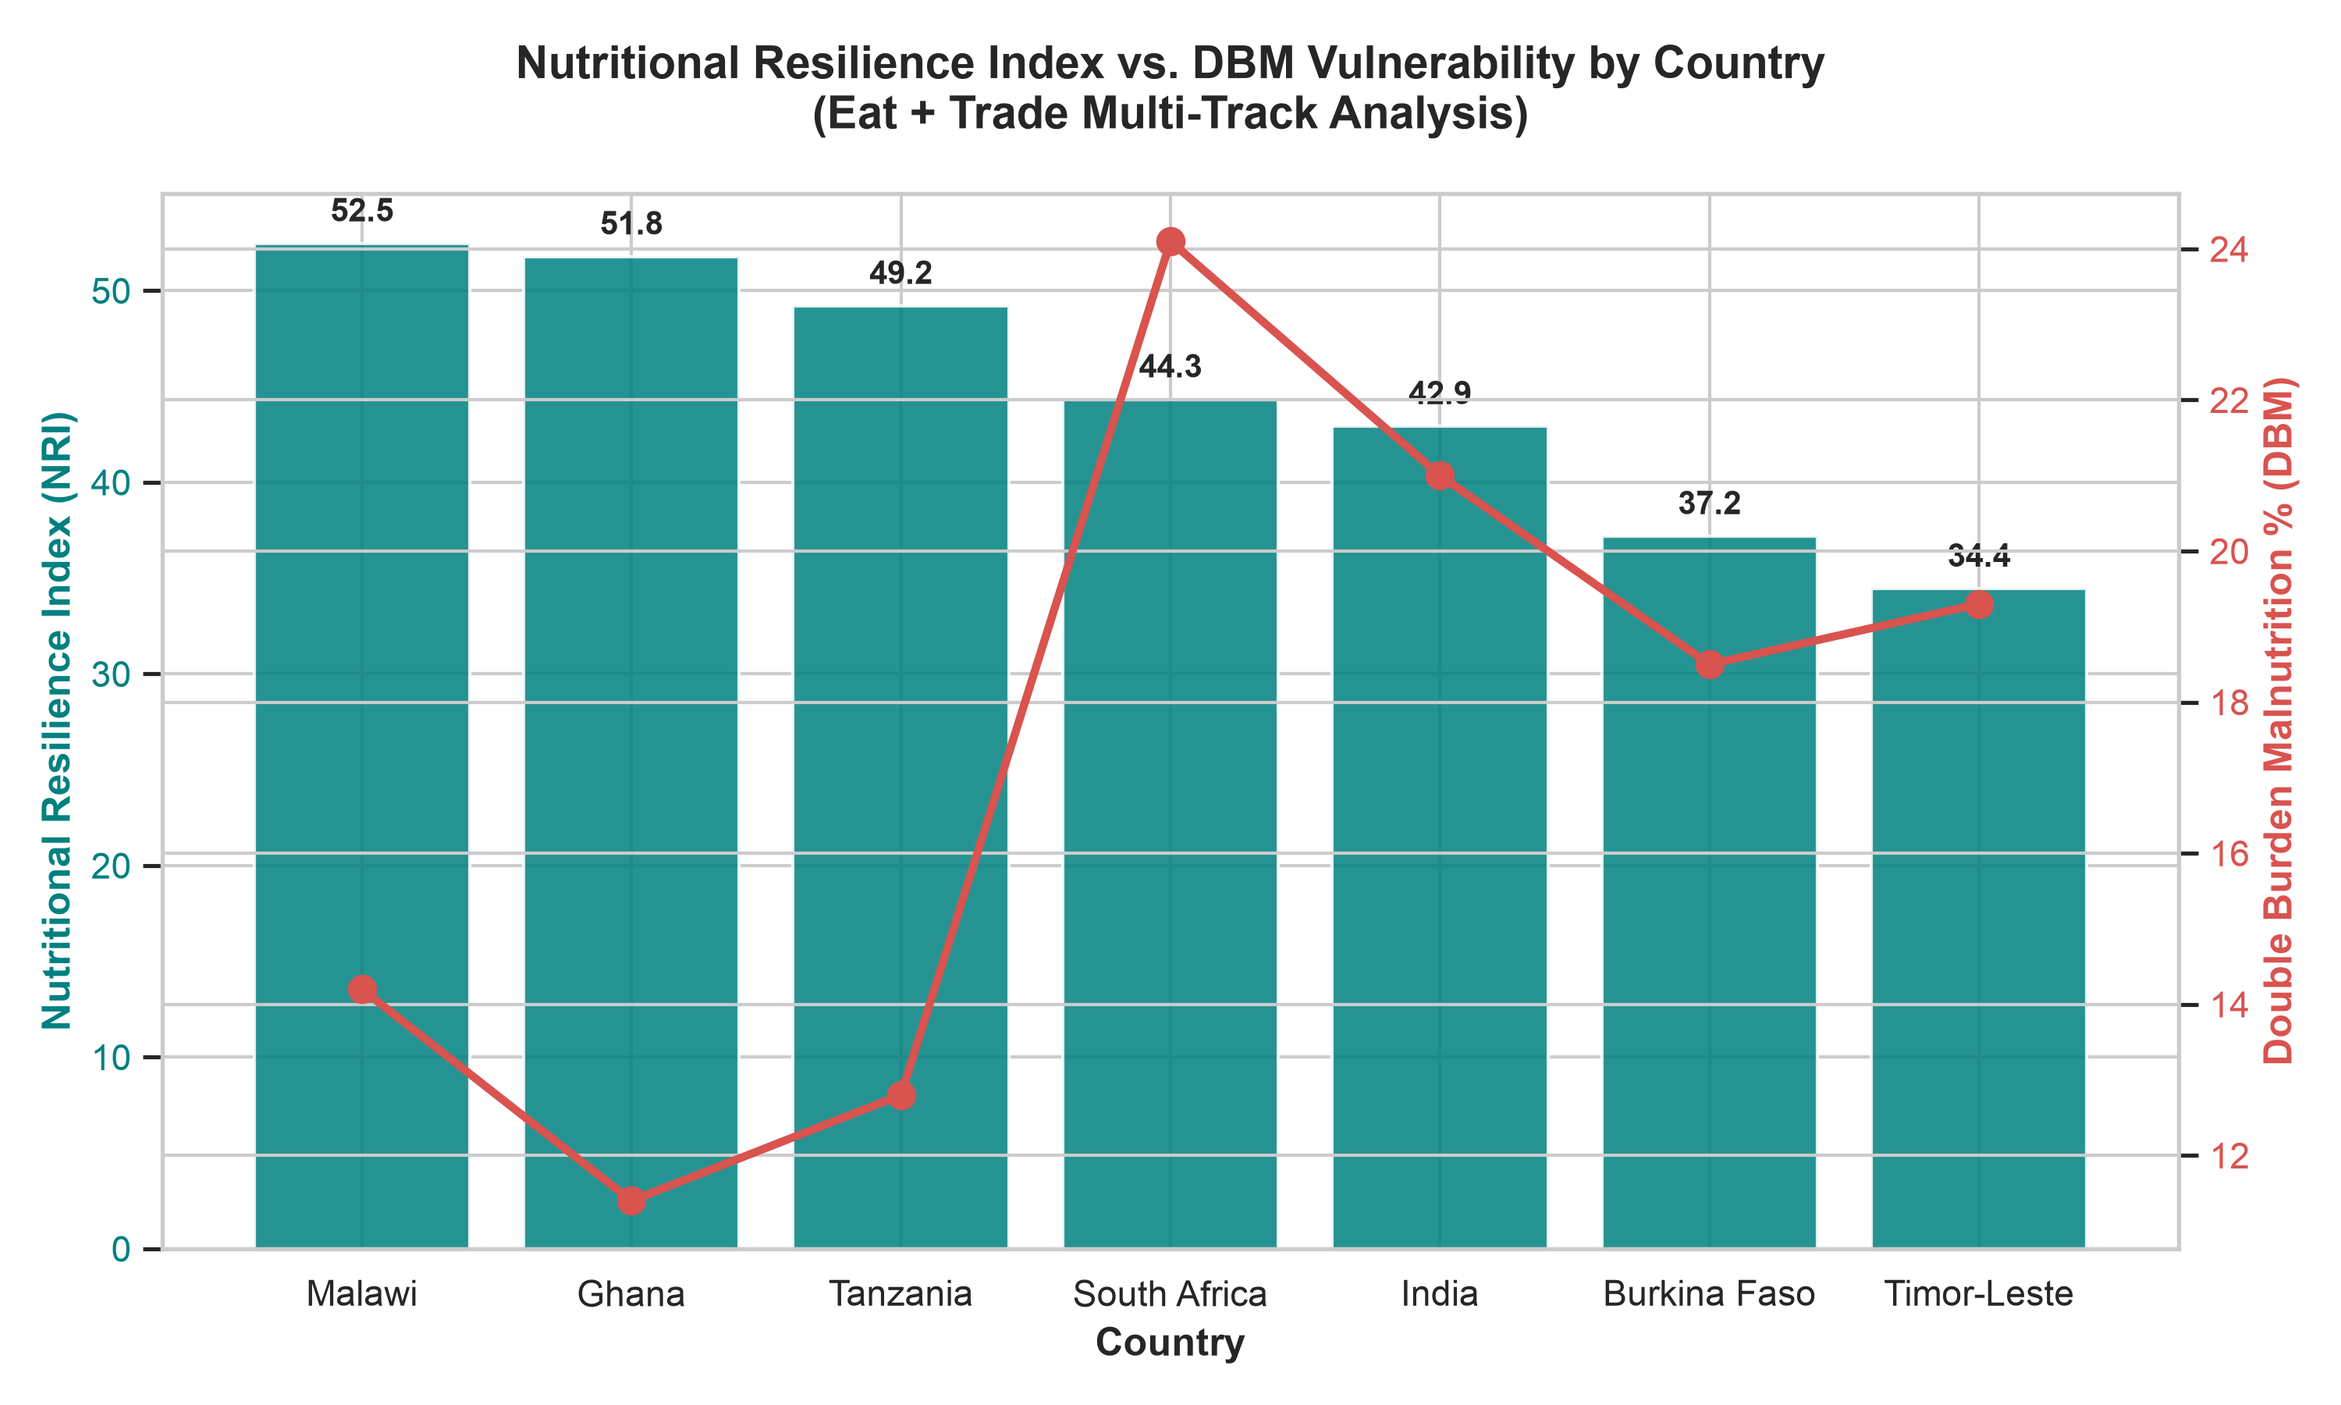
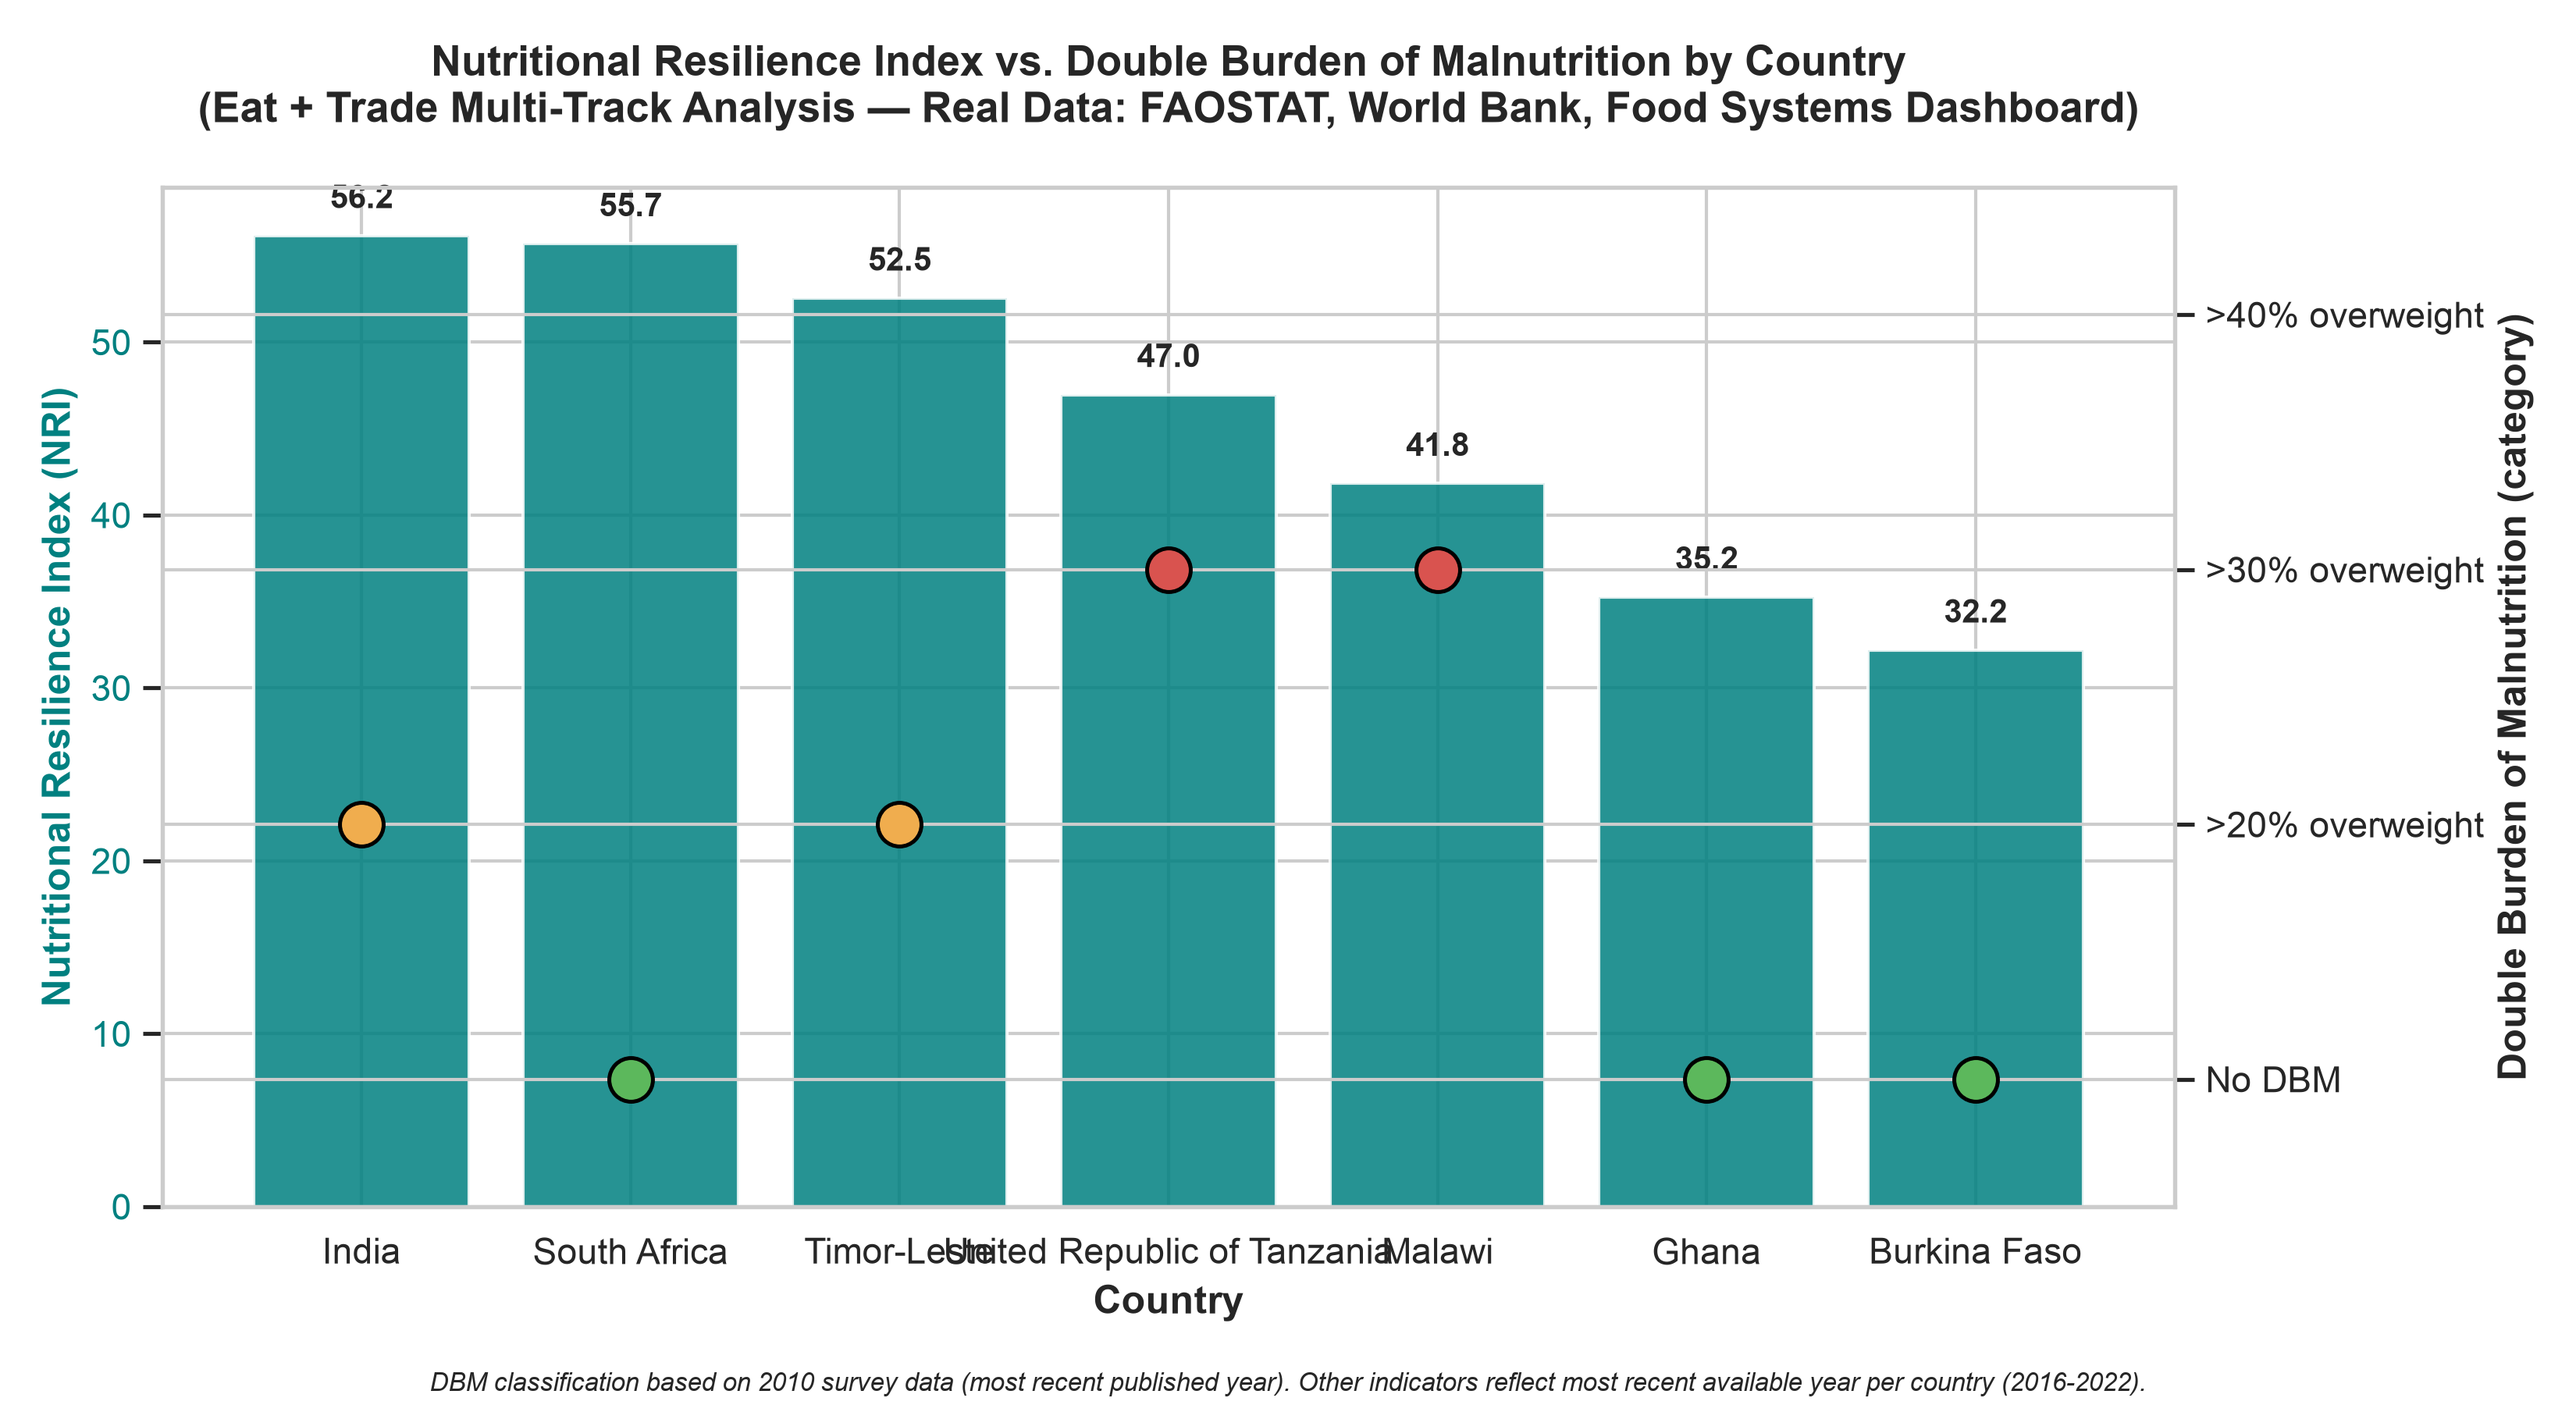
Fix .env loading and align schema.sql with real column names

diff --git a/src/load.py b/src/load.py
@@ -1,7 +1,10 @@
 import os
 import pandas as pd
+from dotenv import load_dotenv
 from sqlalchemy import create_engine, text
 from transform import PROCESSED_PATH
+
+load_dotenv()
 
 VIEW_SQL = """
 CREATE OR REPLACE VIEW view_eat_trade_empowerment_matrix AS
@@ -21,20 +24,18 @@ FROM integrated_eat_trade_matrix
 
 
 def get_engine():
-    db_user = os.environ.get("DB_USER", os.getenv("USER", "postgres"))
-    db_pass = os.environ.get("DB_PASS", "")
-    db_host = os.environ.get("DB_HOST", "localhost")
-    db_port = os.environ.get("DB_PORT", "5432")
-    db_name = os.environ.get("DB_NAME", "food_datathon")
+    db_user = os.environ.get("PG_USER", os.getenv("USER", "postgres"))
+    db_pass = os.environ.get("PG_PASSWORD", "")
+    db_host = os.environ.get("PG_HOST", "localhost")
+    db_port = os.environ.get("PG_PORT", "5432")
+    db_name = os.environ.get("PG_DATABASE", "food_datathon")
     db_url = f"postgresql://{db_user}:{db_pass}@{db_host}:{db_port}/{db_name}"
     return create_engine(db_url)
 
 
 def load_to_postgres():
     if not os.path.exists(PROCESSED_PATH):
-        raise FileNotFoundError(
-            f"{PROCESSED_PATH} not found \u2014 run `python src/transform.py` first."
-        )
+        raise FileNotFoundError(f"{PROCESSED_PATH} not found \u2014 run `python src/transform.py` first.")
 
     integrated_df = pd.read_csv(PROCESSED_PATH)
     engine = get_engine()
